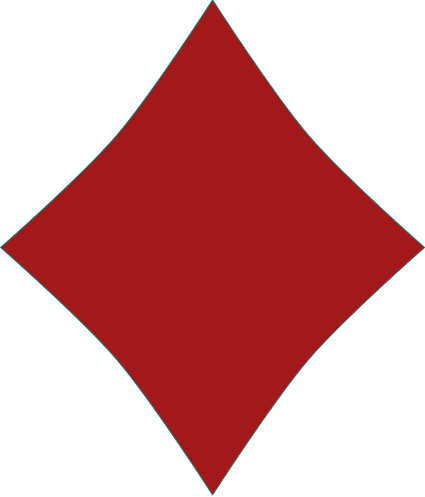
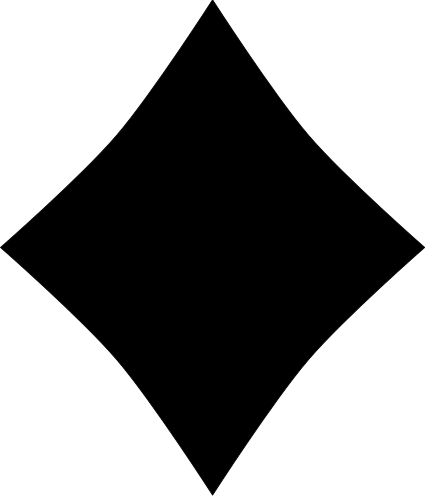
Fixed seeds PNGs in cardSelector box

diff --git a/index.html b/index.html
@@ -41,7 +41,7 @@
       <div id="splashScreenAppInfo">
         <h1>DeckSpace</h1>
         <h3>by lucAmbr0</h2>
-        <h4>v1.83.249</h4>
+        <h4>v1.83.251</h4>
       </div>
     </div>
     <div class="HIDDEN" id="darkOverlay"></div>
@@ -218,7 +218,7 @@
                 <p>PWA Name</p>
                 <p class="alignRight">DeckSpace</p>
                 <p>App Version</p>
-                <p class="alignRight">1.83.249</p>
+                <p class="alignRight">1.83.251</p>
                 <p>License</p>
                 <p class="alignRight">GNU GPL v3.0</p>
               </div>
@@ -331,10 +331,10 @@
         </div>
         </div>
         <div class="seedSelector">
-          <button onclick="selectSeed(this)" class="seedButton">&#9824</button>
-          <button onclick="selectSeed(this)" class="seedButton">&#9827</button>
-          <button onclick="selectSeed(this)" class="seedButton">&#9829</button>
-          <button onclick="selectSeed(this)" class="seedButton">&#9830</button>
+          <button onclick="selectSeed(this)" class="seedButton"><img src="assets/seeds/spades.png" alt="spades"></button>
+          <button onclick="selectSeed(this)" class="seedButton"><img src="assets/seeds/clubs.png" alt="clubs"></button>
+          <button onclick="selectSeed(this)" class="seedButton"><img src="assets/seeds/hearts.png" alt="hearts"></button>
+          <button onclick="selectSeed(this)" class="seedButton"><img src="assets/seeds/diamonds.png" alt="diamonds"></button>
           <button id="drawCardButton">Draw</button>
         </div>
     </div>

diff --git a/style.css b/style.css
@@ -1501,8 +1501,14 @@ a {
 
     button {
         font-size: 28px;
-        font-family: 'Arial', sans-serif !important;
-        font-feature-settings: "liga" off, "clig" off !important;
+
+        img {
+            height: 22px;
+            width: fit-content;
+            filter: invert(6%);
+            opacity: 1;
+            aspect-ratio: 1/1;
+        }
     }
 }
 
